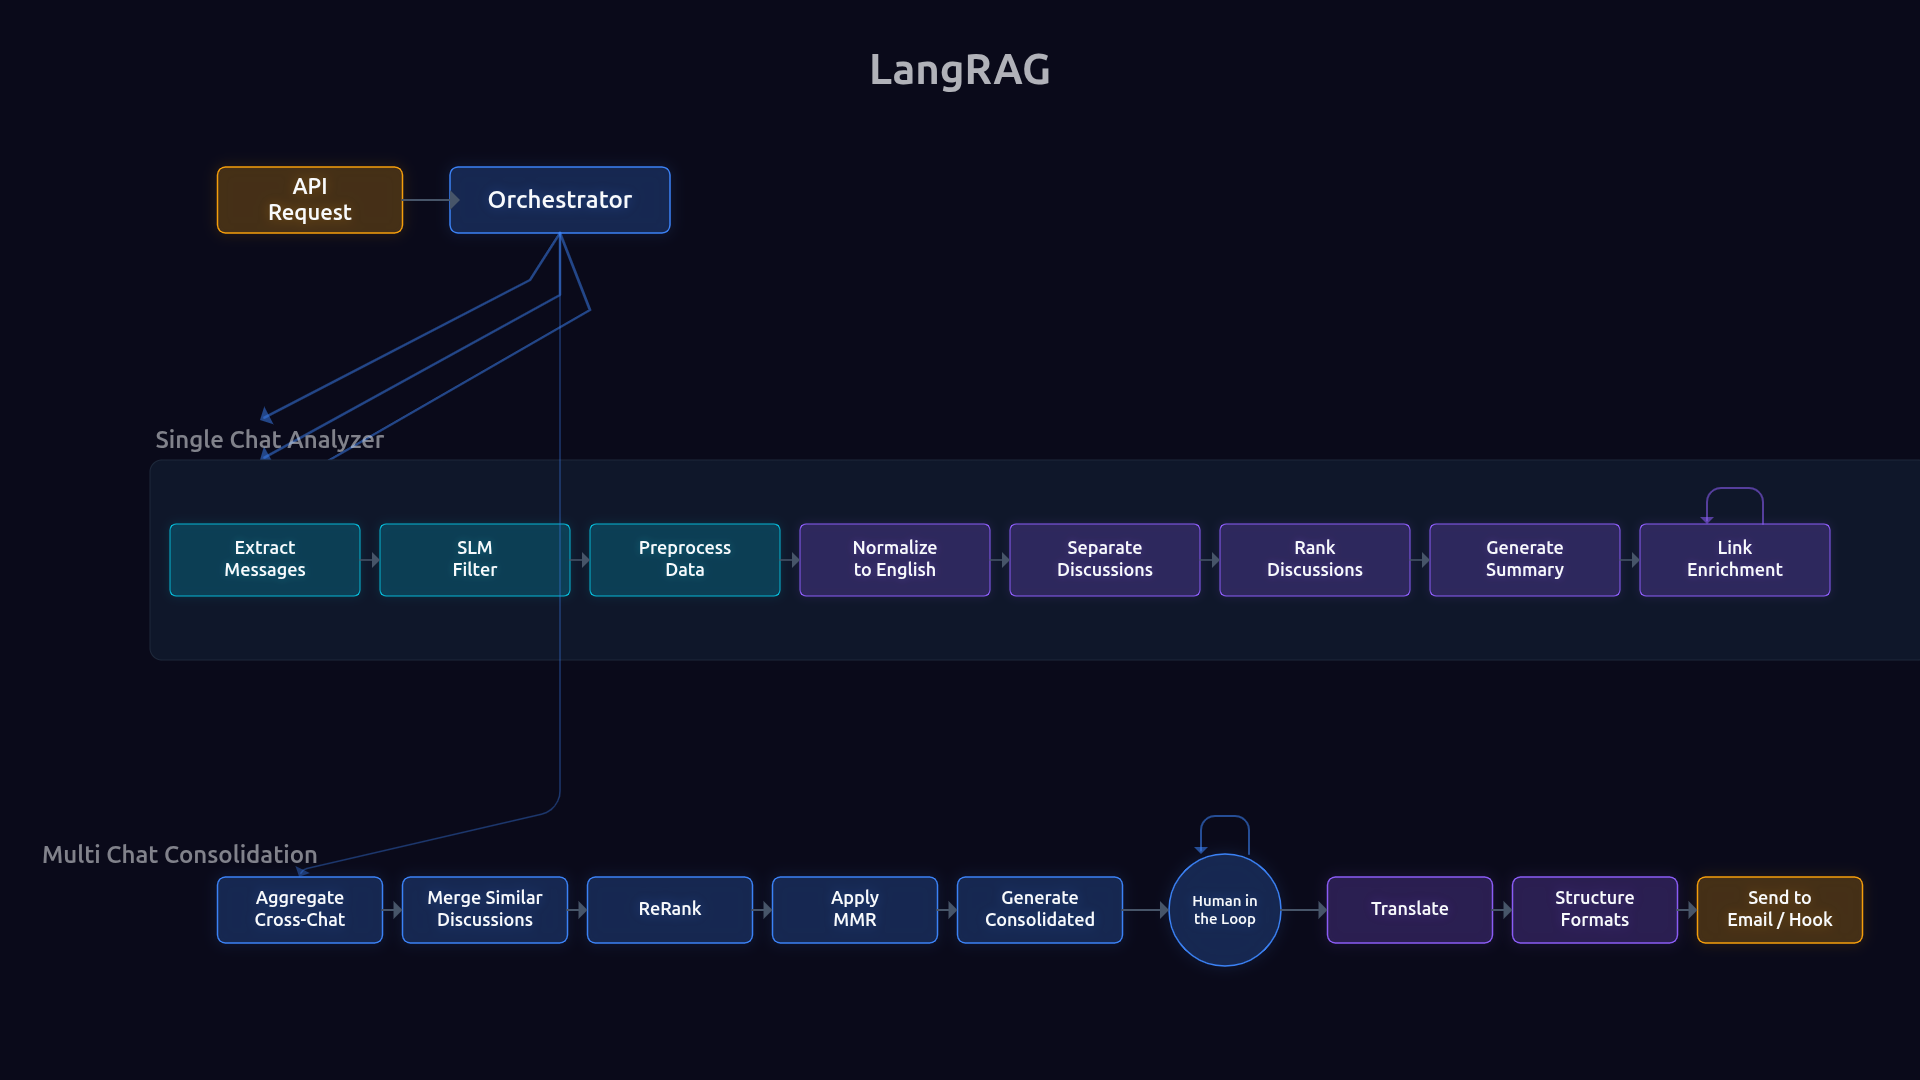
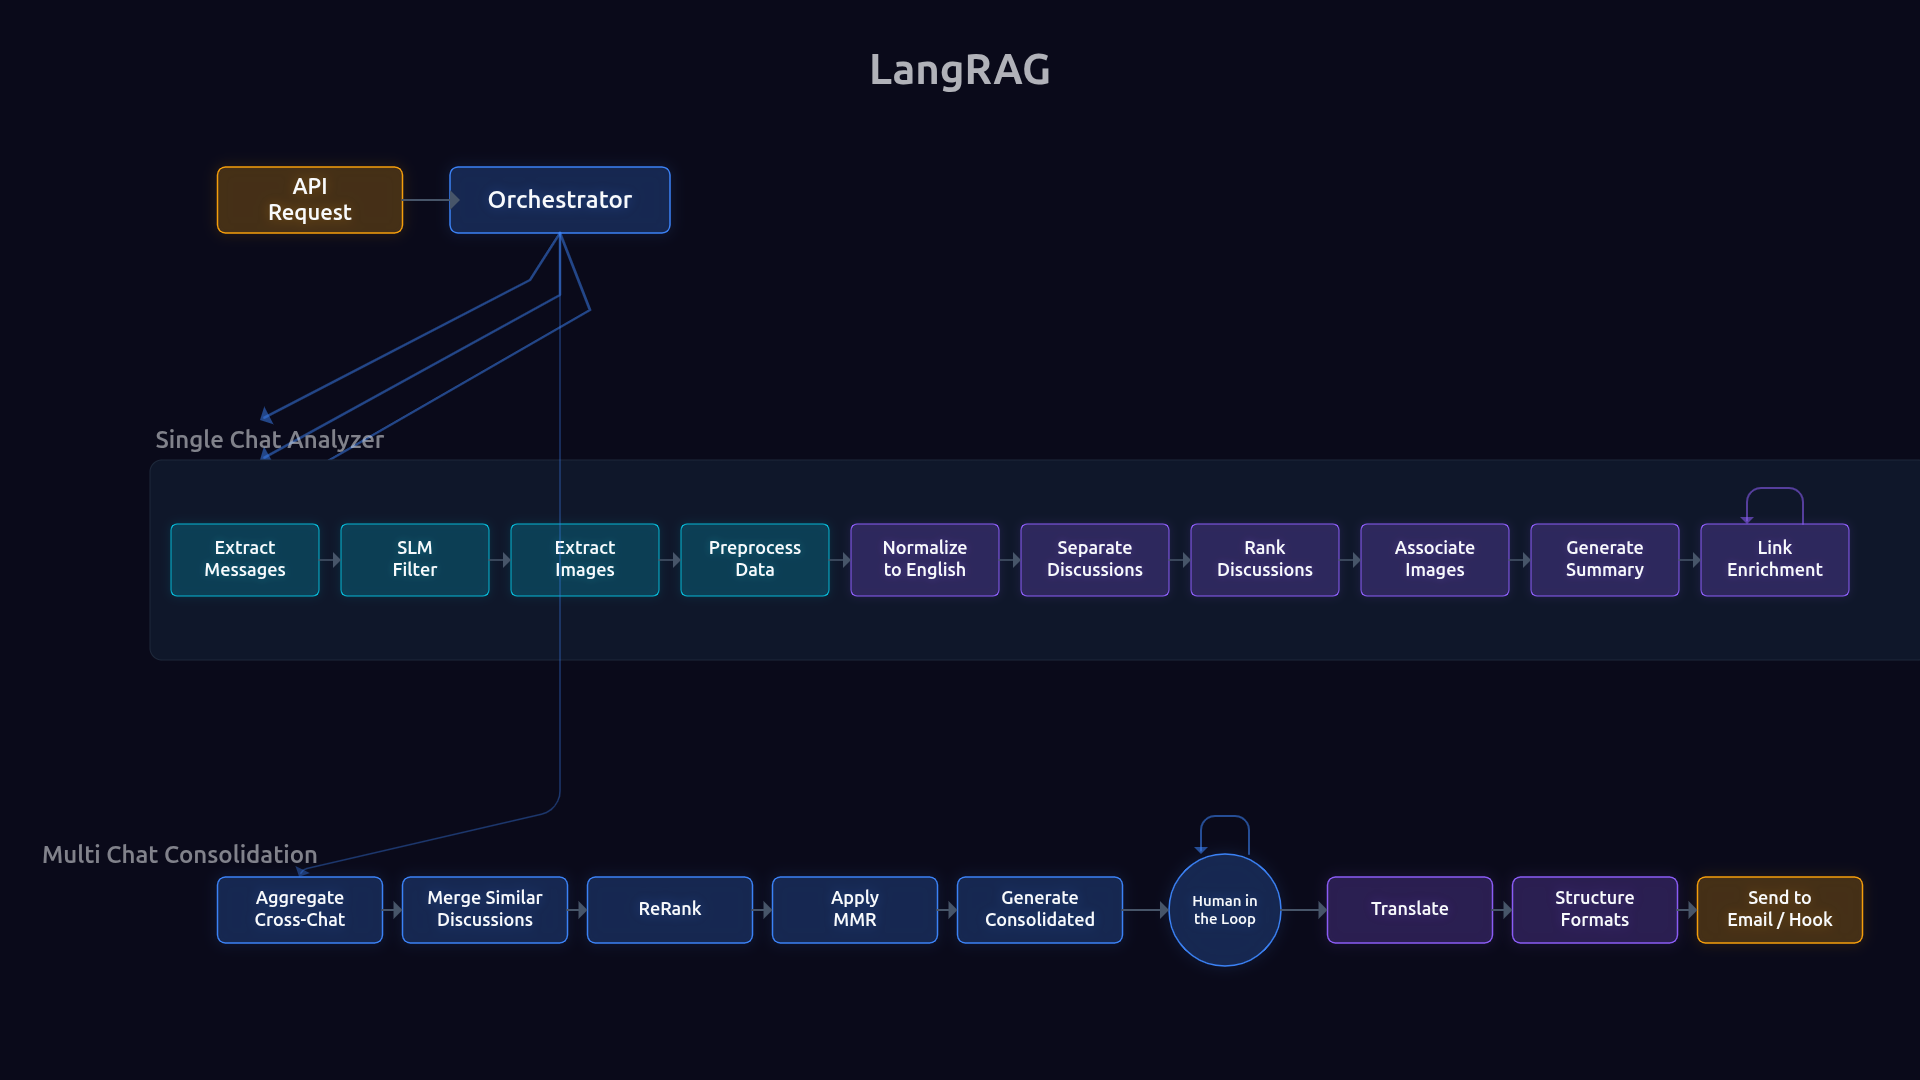
v1.1.1 | Updated README and pipeline animation
Squashed commits:
03904b3 updated animated gif animation

Changed region(s): [[0.0938, 0.4583, 0.9688, 0.55]]

diff --git a/docs/figures/pipeline-animation/src/scenes/pipeline.tsx b/docs/figures/pipeline-animation/src/scenes/pipeline.tsx
@@ -24,17 +24,17 @@ const ROW_TOP = -340;
 const ROW_MID = 20;
 const ROW_BOT = 370;
 
-// Single chat container — wider to fit 8 bigger nodes
+// Single chat container — wider to fit 10 nodes
 const CONTAINER_X = 80;
 const CONTAINER_Y = ROW_MID;
 const CONTAINER_W = 1780;
 const CONTAINER_H = 200;
 
-// Stage spacing inside container (8 stages now)
-const STAGE_W = 190;
+// Stage spacing inside container (10 stages now)
+const STAGE_W = 148;
 const STAGE_H = 72;
-const STAGE_GAP = 210;
-const STAGE_START_X = CONTAINER_X - CONTAINER_W / 2 + 115;
+const STAGE_GAP = 170;
+const STAGE_START_X = CONTAINER_X - CONTAINER_W / 2 + 95;
 
 // Bottom row — 9 nodes
 const BOT_NODE_W = 165;
@@ -55,14 +55,16 @@ interface StageData {
   color: string;
 }
 
-// 8 stages — no final Translate (it moves to bottom row as shared last step)
+// 10 stages — no final Translate (it moves to bottom row as shared last step)
 const PIPELINE_STAGES: StageData[] = [
   {label: 'Extract\nMessages', color: COLORS.TEAL},
   {label: 'SLM\nFilter', color: COLORS.TEAL},
+  {label: 'Extract\nImages', color: COLORS.TEAL},
   {label: 'Preprocess\nData', color: COLORS.TEAL},
   {label: 'Normalize\nto English', color: COLORS.PURPLE},
   {label: 'Separate\nDiscussions', color: COLORS.PURPLE},
   {label: 'Rank\nDiscussions', color: COLORS.PURPLE},
+  {label: 'Associate\nImages', color: COLORS.PURPLE},
   {label: 'Generate\nSummary', color: COLORS.PURPLE},
   {label: 'Link\nEnrichment', color: COLORS.PURPLE},
 ];
@@ -303,7 +305,7 @@ export default makeScene2D(function* (view) {
   );
   yield* waitFor(0.5);
 
-  // ── Pipeline stages (8 nodes) ──
+  // ── Pipeline stages (10 nodes) ──
   const stageRefs: ReturnType<typeof createRef<Rect>>[] = [];
   const stageEdgeRefs: ReturnType<typeof createRef<Line>>[] = [];
 
@@ -362,23 +364,25 @@ export default makeScene2D(function* (view) {
   }
 
   // Animate stages in groups with edges
-  // Group 1: Extract, SLM Filter
+  // Group 1: Extract, SLM Filter, Extract Images
   yield* all(
-    ...stageRefs.slice(0, 2).map((ref) =>
+    ...stageRefs.slice(0, 3).map((ref) =>
       all(
         ref().opacity(1, 0.25, easeOutCubic),
         ref().scale(1, 0.35, easeOutCubic),
       ),
     ),
   );
-  if (stageEdgeRefs[0]) {
-    yield* stageEdgeRefs[0]().end(1, 0.2, easeInOutCubic);
-  }
+  yield* all(
+    ...stageEdgeRefs.slice(0, 2).map((ref, i) =>
+      delay(i * 0.06, ref().end(1, 0.2, easeInOutCubic)),
+    ),
+  );
   yield* waitFor(0.3);
 
-  // Group 2: Preprocess → Rank Discussions
+  // Group 2: Preprocess → Associate Images
   yield* all(
-    ...stageRefs.slice(2, 6).map((ref, i) =>
+    ...stageRefs.slice(3, 8).map((ref, i) =>
       delay(
         i * 0.06,
         all(
@@ -389,14 +393,14 @@ export default makeScene2D(function* (view) {
     ),
   );
   yield* all(
-    ...stageEdgeRefs.slice(1, 5).map((ref, i) =>
+    ...stageEdgeRefs.slice(2, 7).map((ref, i) =>
       delay(i * 0.06, ref().end(1, 0.2, easeInOutCubic)),
     ),
   );
 
   // Group 3: Generate Summary, Link Enrichment
   yield* all(
-    ...stageRefs.slice(6, 8).map((ref, i) =>
+    ...stageRefs.slice(8, 10).map((ref, i) =>
       delay(
         i * 0.06,
         all(
@@ -407,14 +411,14 @@ export default makeScene2D(function* (view) {
     ),
   );
   yield* all(
-    ...stageEdgeRefs.slice(5, 7).map((ref, i) =>
+    ...stageEdgeRefs.slice(7, 9).map((ref, i) =>
       delay(i * 0.06, ref().end(1, 0.2, easeInOutCubic)),
     ),
   );
 
-  // ── Cyclic arrow on Link Enrichment (index 7) ──
+  // ── Cyclic arrow on Link Enrichment (index 9) ──
   const linkLoopRef = createRef<Line>();
-  const linkX = stageX(7);
+  const linkX = stageX(9);
   const loopRadius = 36;
 
   view.add(

diff --git a/README.md b/README.md
@@ -1,6 +1,6 @@
 <div align="center">
 
-  <img src="docs/figures/images/langrag_banner.png" alt="LangRAG — Recapping All Groups" width="300">
+  <img src="docs/figures/images/langrag_banner.png" alt="LangRAG: Recapping All Groups" width="300">
 
   <h3>
     Everyone summarizes WhatsApp.<br>
@@ -37,11 +37,10 @@
   - [n8n Israel](#n8n-israel)
 - [How It Works](#how-it-works)
   - [Pipeline Overview](#pipeline-overview)
-  - [Beeper: The Secret Sauce](#the-secret-sauce)
-  - [Single Chat Analysis](#single-chat-analysis-an-8-stage-pipeline)
-  - [Multi-Chat Consolidation](#multi-chat-consolidation-a-9-stage-pipeline)
   - [What Gives This Solution an Edge](#what-gives-this-solution-an-edge)
-  - [Tech Stack](#tech-stack)
+  - [Reply Correlation via Beeper](#reply-correlation-via-beeper)
+  - [Single Chat Analysis](#single-chat-analysis)
+  - [Multi-Chat Consolidation](#multi-chat-consolidation)
 - [Setup](#setup)
   - [Getting Started](#getting-started)
   - [User Interfaces](#user-interfaces)
@@ -128,21 +127,39 @@ Founded by [Elay Guez](https://www.linkedin.com/in/elay-g/), [Gilad Shoham](http
 ### Pipeline Overview
 
 <div align="center">
-  <img src="docs/figures/pipeline_overview/pipeline_overview.gif" alt="LangRAG pipeline overview — animated" width="800">
+  <img src="docs/figures/pipeline_overview/pipeline_overview.gif" alt="LangRAG pipeline overview - animated" width="800">
 </div>
 
 <details>
 <summary><strong>View static diagram</strong></summary>
 
 <div align="center">
-  <img src="docs/figures/pipeline_overview/pipeline_overview.png" alt="LangRAG pipeline overview — full diagram" width="800">
+  <img src="docs/figures/pipeline_overview/pipeline_overview.png" alt="LangRAG pipeline overview - full diagram" width="800">
 </div>
 
 </details>
 
 ---
 
-### The Secret Sauce
+### What Gives this Solution an Edge
+
+| Feature | How | Impact |
+|---------|-----|--------|
+| Image Understanding | Vision model describes shared images, context injected into generation | Newsletters reflect visual content, not just text |
+| Reply Correlation | Matrix `m.relates_to` metadata preserved through Beeper extraction | Precise discussion separation - no timestamp guessing |
+| MMR Diversity Ranking | Multi-factor scoring + Maximal Marginal Relevance | Quality-diversity balance |
+| Human-in-the-Loop | Two-phase pipeline with Web UI discussion selector | Editorial control over final newsletter content |
+| Batch API | JSONL serialization, async polling, exponential backoff | 50% cost reduction |
+| SLM Pre-filtering | Configurable local SLM classifies KEEP/FILTER/UNCERTAIN before LLM | 15-30% additional savings |
+| Hybrid Anti-Repetition | Embedding cosine similarity + LLM validation vs. last N editions | No repetition of content from previous N newsletters |
+| Smart Discussion Merging | Configurable similarity thresholds + LLM validation | Better handling of cross-group similar discussions |
+| Full Observability | Langfuse + Prometheus + Loki/Grafana, all fail-soft | Production monitoring |
+| Link Enrichment | Auto-fetch URLs, non-destructive markdown insertion | References for further learning |
+| LinkedIn Automation | n8n webhook integration | One-click LinkedIn draft publishing |
+
+---
+
+### Reply Correlation via Beeper
 
 <img src="docs/figures/images/beeper.png" alt="Beeper" width="40" align="left" style="margin-right: 12px;">
 
@@ -152,44 +169,52 @@ Most WhatsApp export tools lose reply metadata - the link between a reply and th
 
 Better data, better results.
 
-### Single Chat Analysis: An 8-Stage Pipeline
+### Single Chat Analysis
 
 Each chat runs through the **SingleChatAnalyzer** - a LangGraph pipeline which would be used as a subgraph in multi-chat. These are its stages:
 
 #### 1. Extract Messages
-Pulls messages from the selected groups, using a Beeper/Matrix bridge. Preserves metadata for reply threading. Includes automatic decryption using a hybrid decryption manager with three configurable strategies: persistent session store, server-side key backup, and manual key export.
+Pulls messages from the selected groups via a Beeper/Matrix bridge. Preserves reply-chain metadata (`m.in_reply_to`) for accurate discussion separation. Includes automatic E2E decryption with three configurable strategies: persistent session store, server-side key backup, and manual key export.
 
 #### 2. SLM Filter *(optional)*
 
-A local Phi3 model (via Ollama) classifies each message as **KEEP**, **FILTER**, or **UNCERTAIN**. Reduces downstream LLM API calls by 15-30%. Fail-soft: if the SLM is unavailable, the pipeline continues without filtering. UNCERTAIN messages always pass through to the LLM pipeline.
+A configurable local SLM (via Ollama) classifies each message as **KEEP**, **FILTER**, or **UNCERTAIN**. Reduces downstream LLM API calls by 15-30%. Fail-soft: if the SLM is unavailable, the pipeline continues without filtering.
 
-#### 3. Preprocess Data
+#### 3. Extract Images *(optional)*
+
+Downloads and decrypts images shared in the chat (AES-CTR encrypted media from Matrix). Describes each image using a configurable vision model. Descriptions are cached in MongoDB to avoid redundant API calls. This visual context is carried forward through the pipeline and injected into newsletter generation.
+
+#### 4. Preprocess Data
 
 Parse timestamps, sender names, media attachments, and URLs. Pure transformation | no LLM calls. Structures raw Matrix events into a normalized message format.
 
-#### 4. Normalize to English
+#### 5. Normalize to English
 
 Normalize all messages to English using gpt-4o-mini in batch mode. Messages already in English are skipped. This ensures consistent language for downstream analysis regardless of the source language.
 
-#### 5. Separate Discussions
+#### 6. Separate Discussions
 
-Group messages into topical discussions. Uses reply-to chains (from Beeper's `m.relates_to`) as the primary signal, with LLM-based content analysis as a secondary signal for standalone messages. Outputs a structured list of discussions, each with its constituent messages.
+Group messages into topical discussions. Uses reply-to chains as the primary signal, with LLM-based content analysis as a secondary signal for standalone messages. Outputs a structured list of discussions, each with its constituent messages.
 
-#### 6. Rank Discussions
+#### 7. Rank Discussions
 
 Score discussions by importance and diversity. Uses a **discussion ranker subgraph** that combines multi-factor scoring with Maximal Marginal Relevance (MMR) re-ranking. Includes anti-repetition checks against previous newsletters (embedding cosine similarity + LLM validation) | reducing repeated content by up to 80%.
 
-#### 7. Generate Summary
+#### 8. Associate Images
 
-Create the newsletter content from the top-ranked discussions. Uses format plugins (`langtalks_format`, `mcp_israel_format`) to produce output as JSON, Markdown, and HTML. Each format defines its own structure, section ordering, and editorial style.
+Maps extracted image descriptions to their parent discussions. The generation stage receives both the text content and the visual context of each discussion, producing richer and more accurate summaries.
 
-#### 8. Link Enrichment
+#### 9. Generate Summary
+
+Create the newsletter content from the top-ranked discussions. Uses format plugins (`langtalks_format`, `mcp_israel_format`) to produce output as JSON, Markdown, and HTML. Each format defines its own structure, section ordering, and editorial style. Image context is included where relevant.
+
+#### 10. Link Enrichment
 
 Extract URLs from the original messages and optionally perform web searches to find additional relevant links. Inserts markdown hyperlinks into the newsletter content non-destructively | existing text is preserved, links are woven in contextually.
 
-### Multi-Chat Consolidation: A 9-Stage Pipeline
+### Multi-Chat Consolidation
 
-When processing multiple WhatsApp groups, the **ParallelOrchestrator** coordinates the full pipeline. The orchestrator dispatches N chats concurrently using LangGraph's **Send API**, each running the full 8-stage SingleChatAnalyzer independently. After all chats complete, the consolidation stages begin:
+When processing multiple WhatsApp groups, the **ParallelOrchestrator** coordinates the full pipeline. The orchestrator dispatches N chats concurrently using LangGraph's **Send API**, each running the full SingleChatAnalyzer independently. After all chats complete, the consolidation stages begin:
 
 #### 1. Aggregate Cross-Chat
 
@@ -231,37 +256,6 @@ The output handler dispatches to multiple destinations:
 - **Email** | Via SendGrid, Gmail, or SMTP2GO
 - **LinkedIn** | Draft post via n8n webhook
 - **Webhook** | Custom HTTP endpoint
-
----
-
-### What Gives this Solution an Edge
-
-| Feature | How | Impact |
-|---------|-----|--------|
-| Reply Threading via Beeper | Matrix `m.relates_to` metadata preserved through extraction | Precise discussion separation - no timestamp guessing |
-| MMR Diversity Ranking | Multi-factor scoring + Maximal Marginal Relevance | Quality-diversity balance |
-| Human-in-the-Loop | Two-phase pipeline with Web UI discussion selector | Editorial control over final newsletter content |
-| Batch API | JSONL serialization, async polling, exponential backoff | 50% cost reduction |
-| SLM Pre-filtering | Local Phi3 classifies KEEP/FILTER/UNCERTAIN before LLM | 15-30% additional savings |
-| Hybrid Anti-Repetition | Embedding cosine similarity + LLM validation vs. last N editions | No repetition of content from previous N newsletters |
-| Smart Discussion Merging | Configurable similarity thresholds + LLM validation | Better handling of cross-group similar discussions |
-| Full Observability | Langfuse + Prometheus + Loki/Grafana, all fail-soft | Production monitoring |
-| Link Enrichment | Auto-fetch URLs, non-destructive markdown insertion | References for further learning |
-| LinkedIn Automation | n8n webhook integration | One-click LinkedIn draft publishing |
-
-### Tech Stack
-
-| Layer | Technology |
-|-------|-----------|
-| API | FastAPI (async) |
-| Orchestration | LangGraph 1.0+ (native async graphs) |
-| LLM | OpenAI or Anthropic (via LangChain) |
-| Cost Optimization | Batch API (OpenAI / Anthropic) + Ollama SLM (Phi3) |
-| Database | MongoDB 8 + Motor (async) + Atlas Vector Search |
-| Message Source | Beeper / Matrix (matrix-nio, E2E encrypted) |
-| Frontend | React 19 + TypeScript + SSE streaming |
-| Observability | Langfuse, Prometheus, Loki, Grafana |
-| Infrastructure | Docker Compose, nginx |
 
 ---
 
@@ -372,6 +366,7 @@ See: **[docs/setup/SETUP_LINKEDIN_WEBHOOK.md](docs/setup/SETUP_LINKEDIN_WEBHOOK.
 | `enable_discussion_merging` | Merge similar discussions across different chats | `true` / `false` | `true` |
 | `similarity_threshold` | How aggressively to merge similar discussions | `strict` / `moderate` / `aggressive` | `moderate` |
 | `summary_format` | Newsletter template and editorial style | `langtalks_format`, `mcp_israel_format` | required |
+| `enable_image_extraction` | Extract and describe shared images using a vision model | `true` / `false` | `false` |
 | `create_linkedin_draft` | Auto-create a LinkedIn draft post via n8n | `true` / `false` | `false` |
 
 #### Environment Variables

diff --git a/CHANGELOG.md b/CHANGELOG.md
@@ -1,5 +1,9 @@
 # Changelog
 
+## v1.2.1
+- Updated README: image extraction pipeline documentation, reply correlation section, reduced hardcoded model references.
+- Updated pipeline animation and static diagram to include Extract Images and Associate Images stages.
+
 ## v1.1.0
   - Image analysis pipeline: extract, decrypt, and describe images from WhatsApp messages using vision models.
   - Images are now associated with their discussions and included as context in the relevant llm calls.
